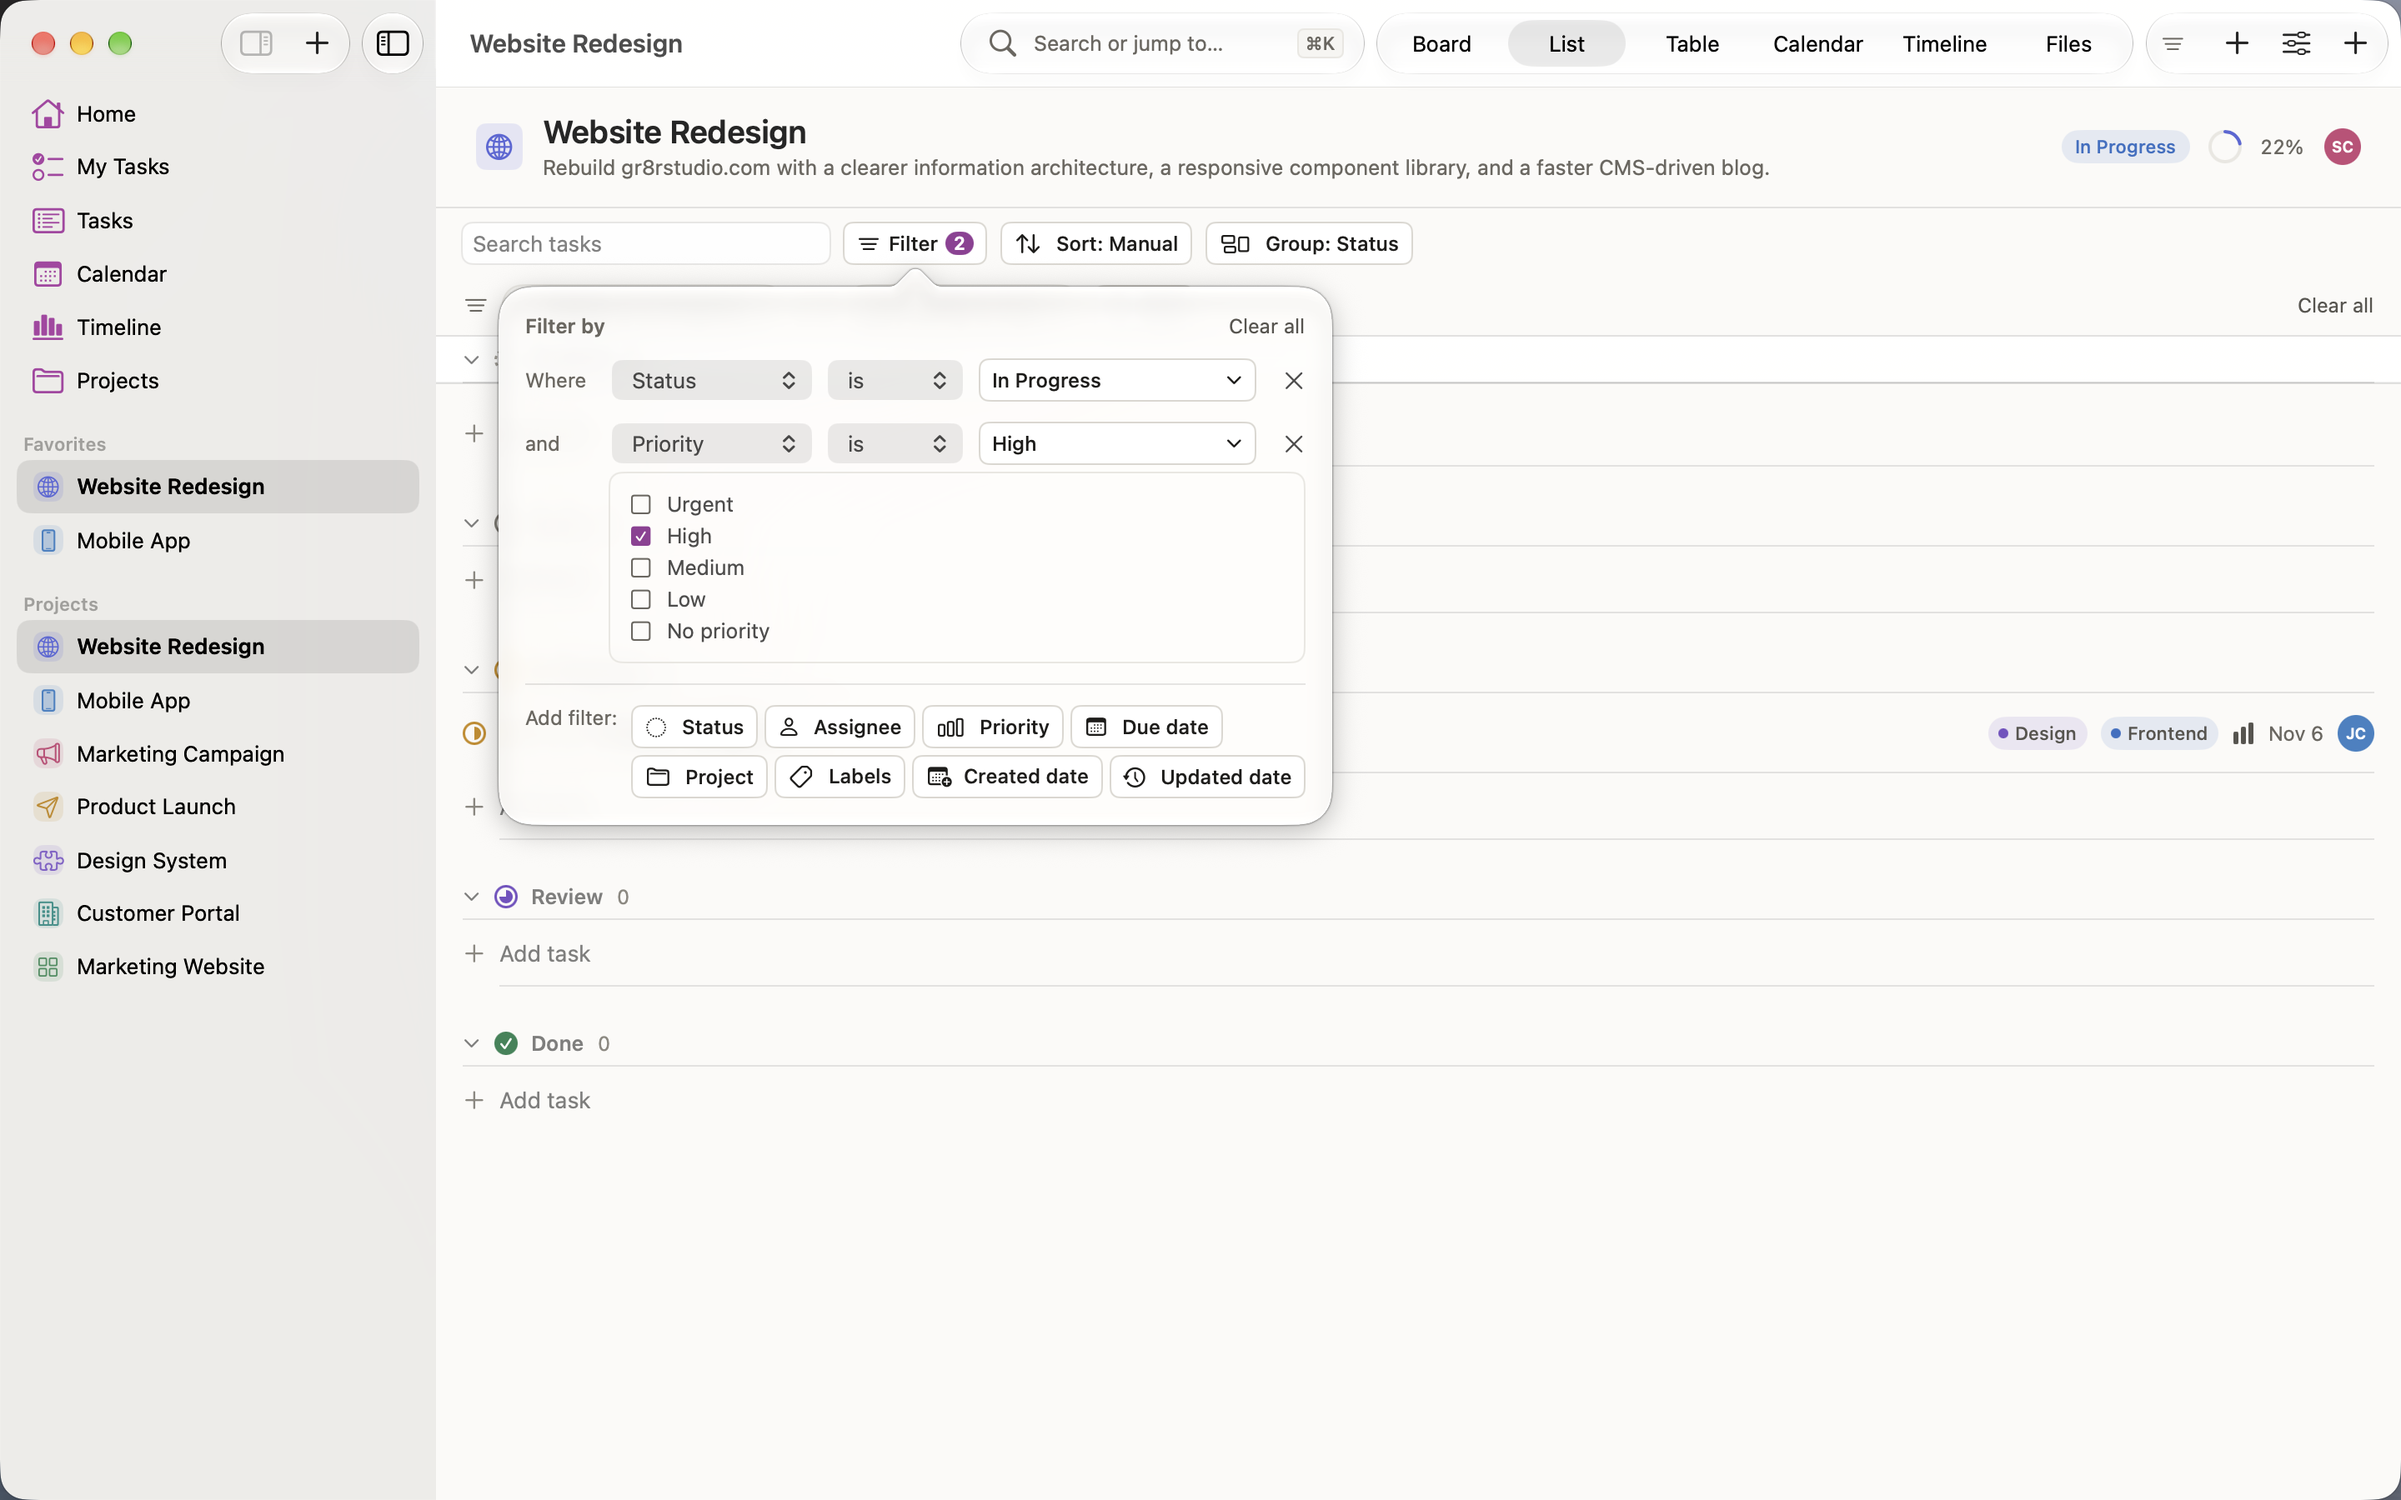
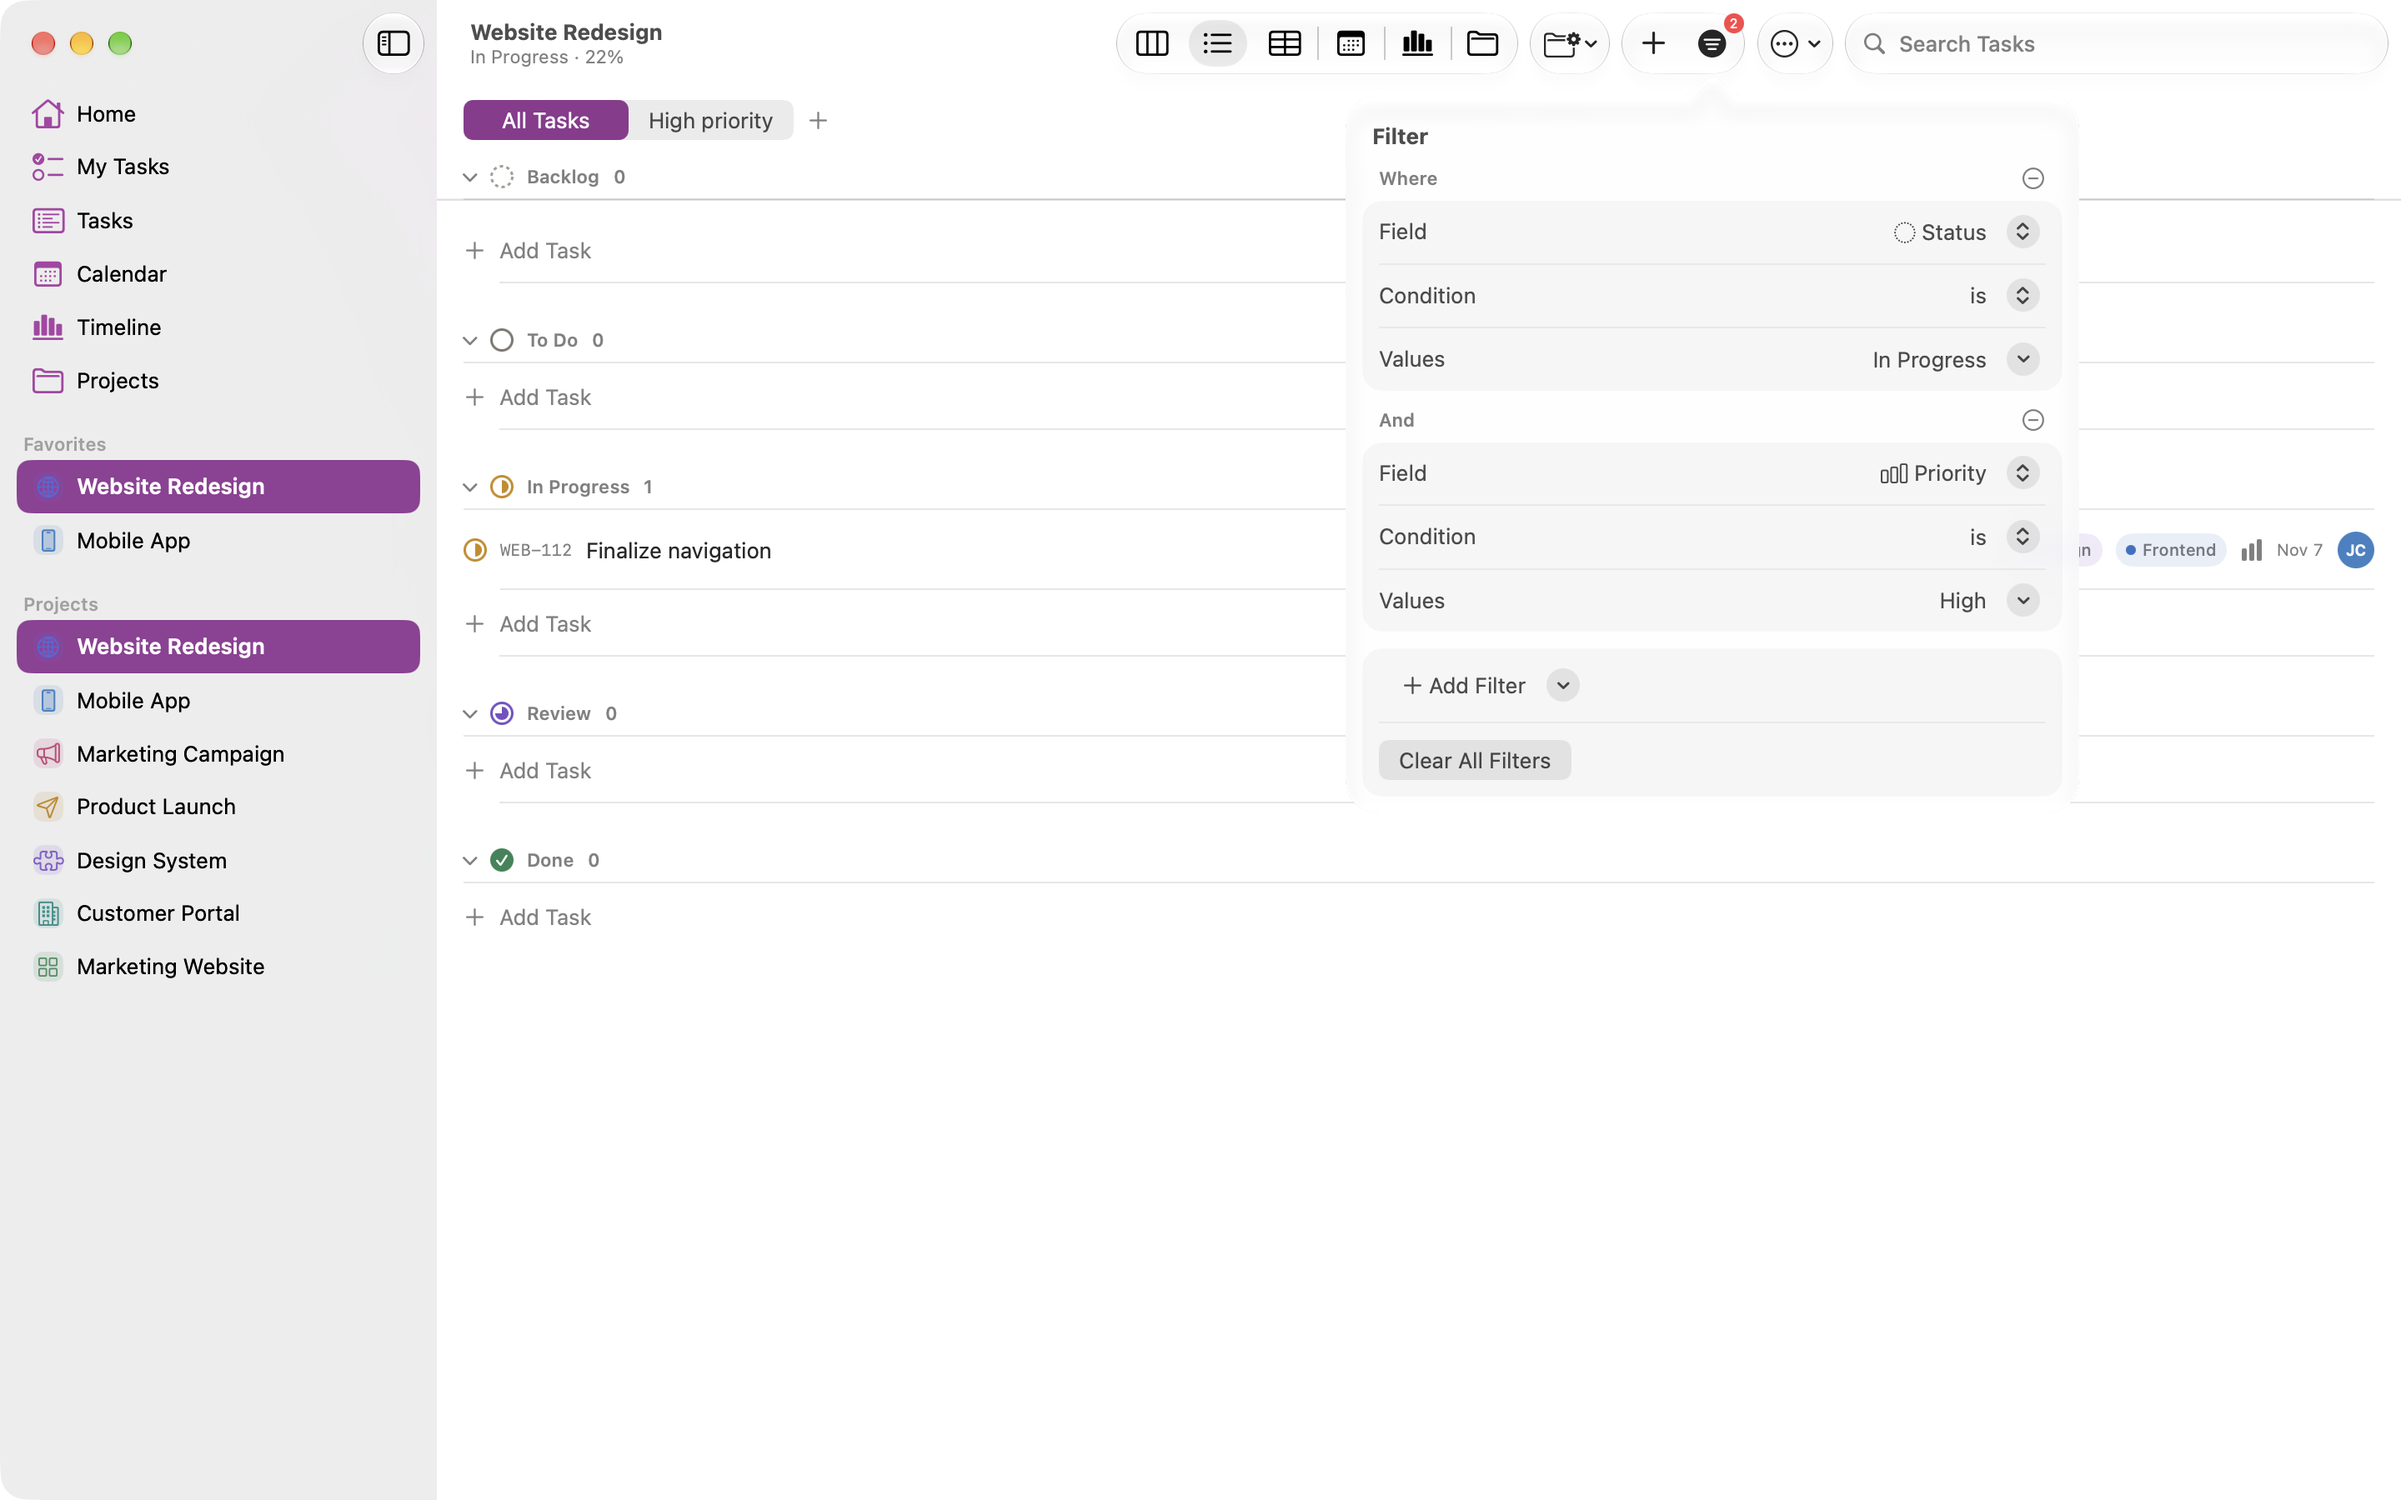
feat(tycho): retake the views screenshots on the saved-view tabs build

diff --git a/tycho/SHOTLIST.md b/tycho/SHOTLIST.md
@@ -17,8 +17,9 @@ Source: https://github.com/akira-foundation/tycho (native SwiftUI task manager f
 - [x] `palette/02-search.png`: macOS, the Command-K palette with "design" typed, showing task and project results. NEEDED BY Thu 12/11 08:00
 - [x] `palette/03-view-all.png`: macOS, the Search page opened from "View all results" for "design", with a count per scope.
 - [x] `shortcuts/01-sheet.png`: macOS, the keyboard shortcuts sheet (opened with ?) listing the single keys and the G chords. NEEDED BY Sat 14/11 13:00
-- [x] `views/01-filter-builder.png`: macOS, a demo project's task view with the filter builder open, two filter chips applied (status is Open, priority is High). NEEDED BY Sun 15/11 08:00
+- [x] `views/01-filter-builder.png`: macOS, a demo project's task view with the filter builder open, two filters applied (status is In Progress, priority is High). NEEDED BY Sun 15/11 08:00
 - [x] `views/02-saved-view.png`: the same project after saving that filter as a view: the new tab next to the built-in ones. NEEDED BY Sun 15/11 08:00
+- [x] `views/03-save-view-sheet.png`: macOS, the Save View sheet naming the filtered list before it becomes a tab. NEEDED BY Sun 15/11 08:00
 - [x] `files/01-grid.png`: macOS, a demo project's Files tab in grid view with a few demo files (an image, a PDF, a text file). NEEDED BY Tue 17/11 08:00
 - [x] `timeline/01-dependencies.png`: macOS, a demo project's timeline in weeks zoom with task bars, at least one dependency arrow and a milestone. NEEDED BY Wed 18/11 08:00
 - [ ] `design/01-system-accent.png`: macOS, Tycho's board with a non-default system accent colour (e.g. green) set in System Settings, so buttons and selection follow it. NEEDED BY Fri 20/11 08:00

diff --git a/tycho/views/post.md b/tycho/views/post.md
@@ -16,3 +16,4 @@ Filters in Tycho: status, assignee, priority, due date, project, labels, created
 
 - `01-filter-builder.png`
 - `02-saved-view.png`
+- `03-save-view-sheet.png`
